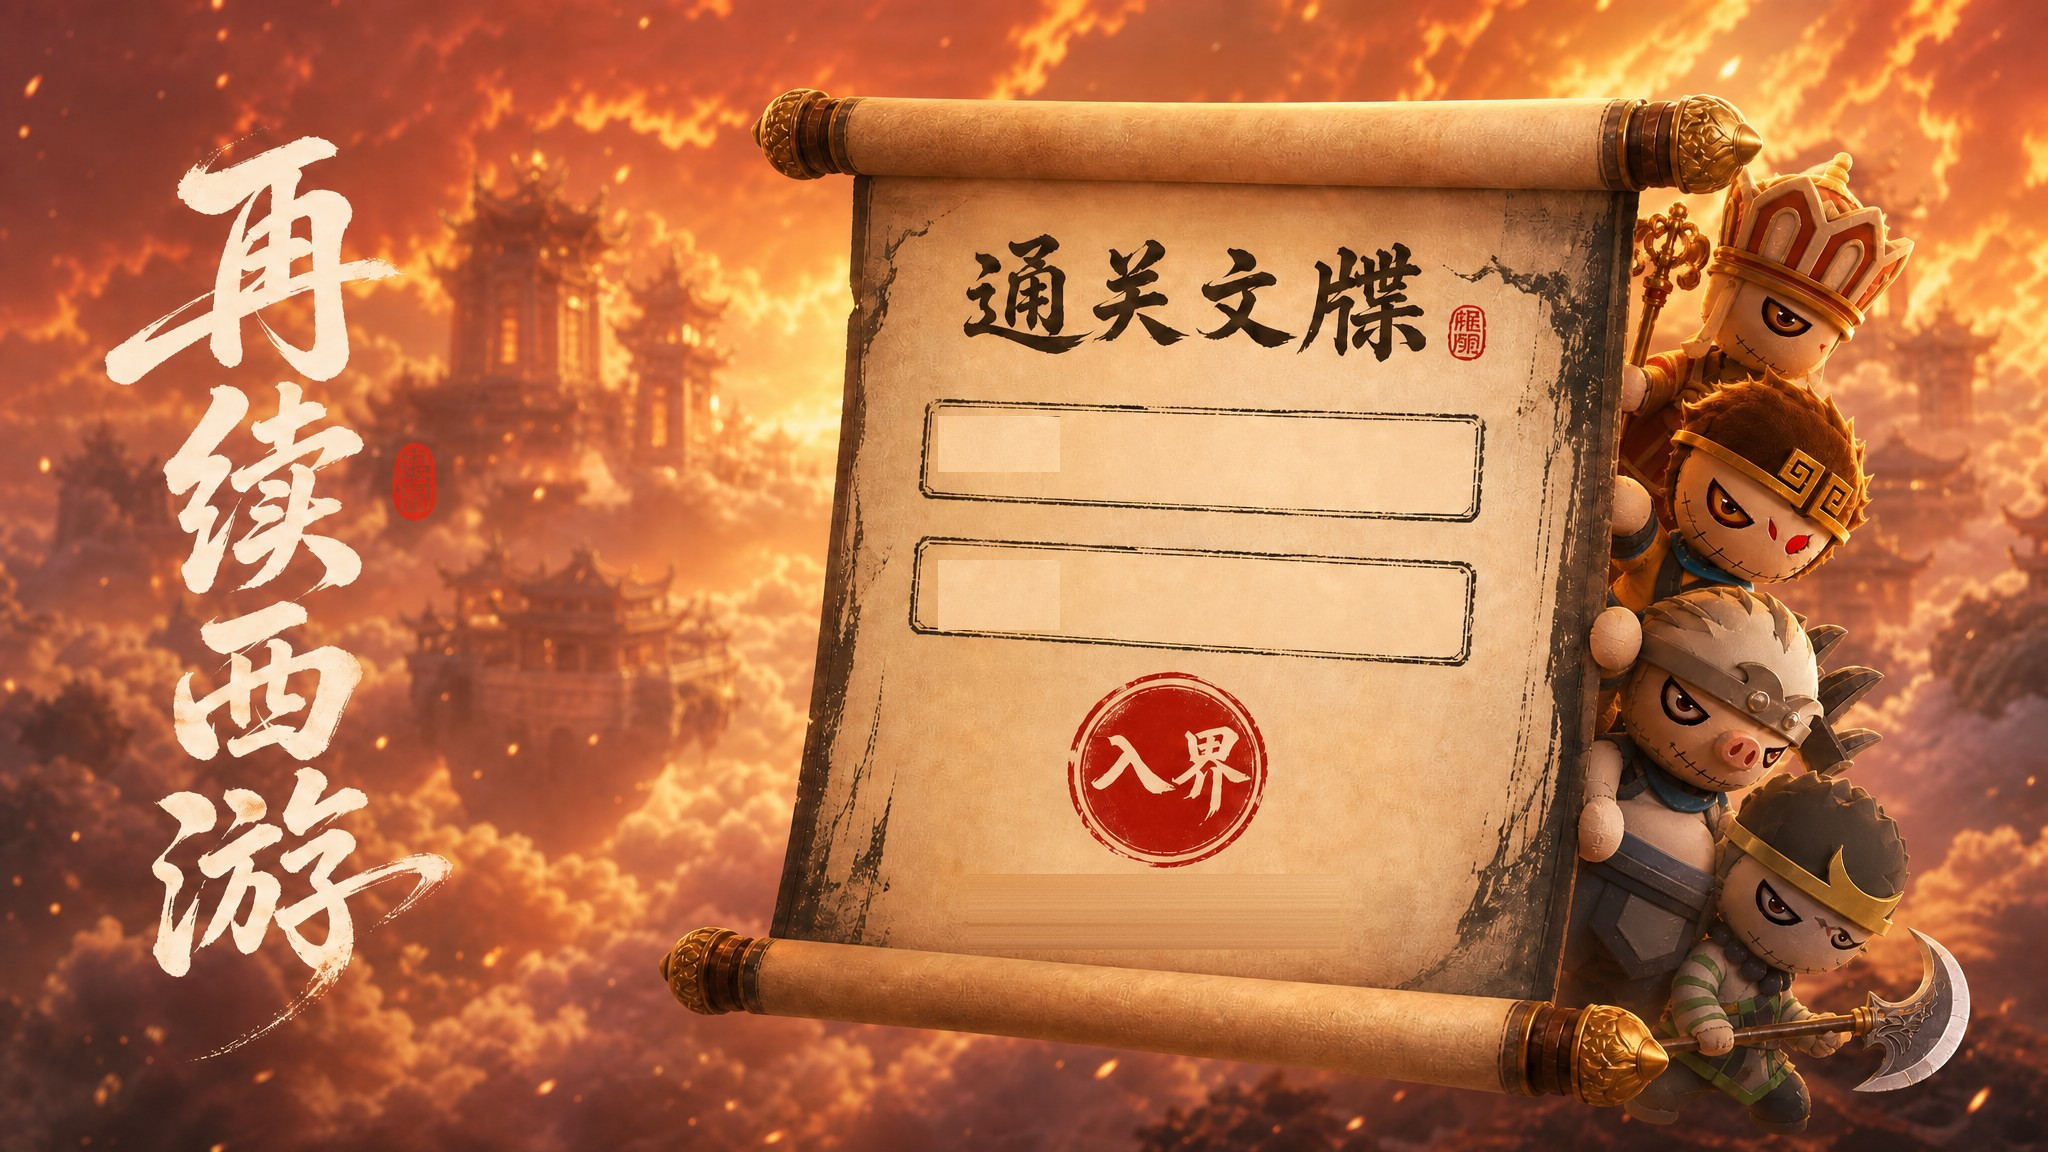
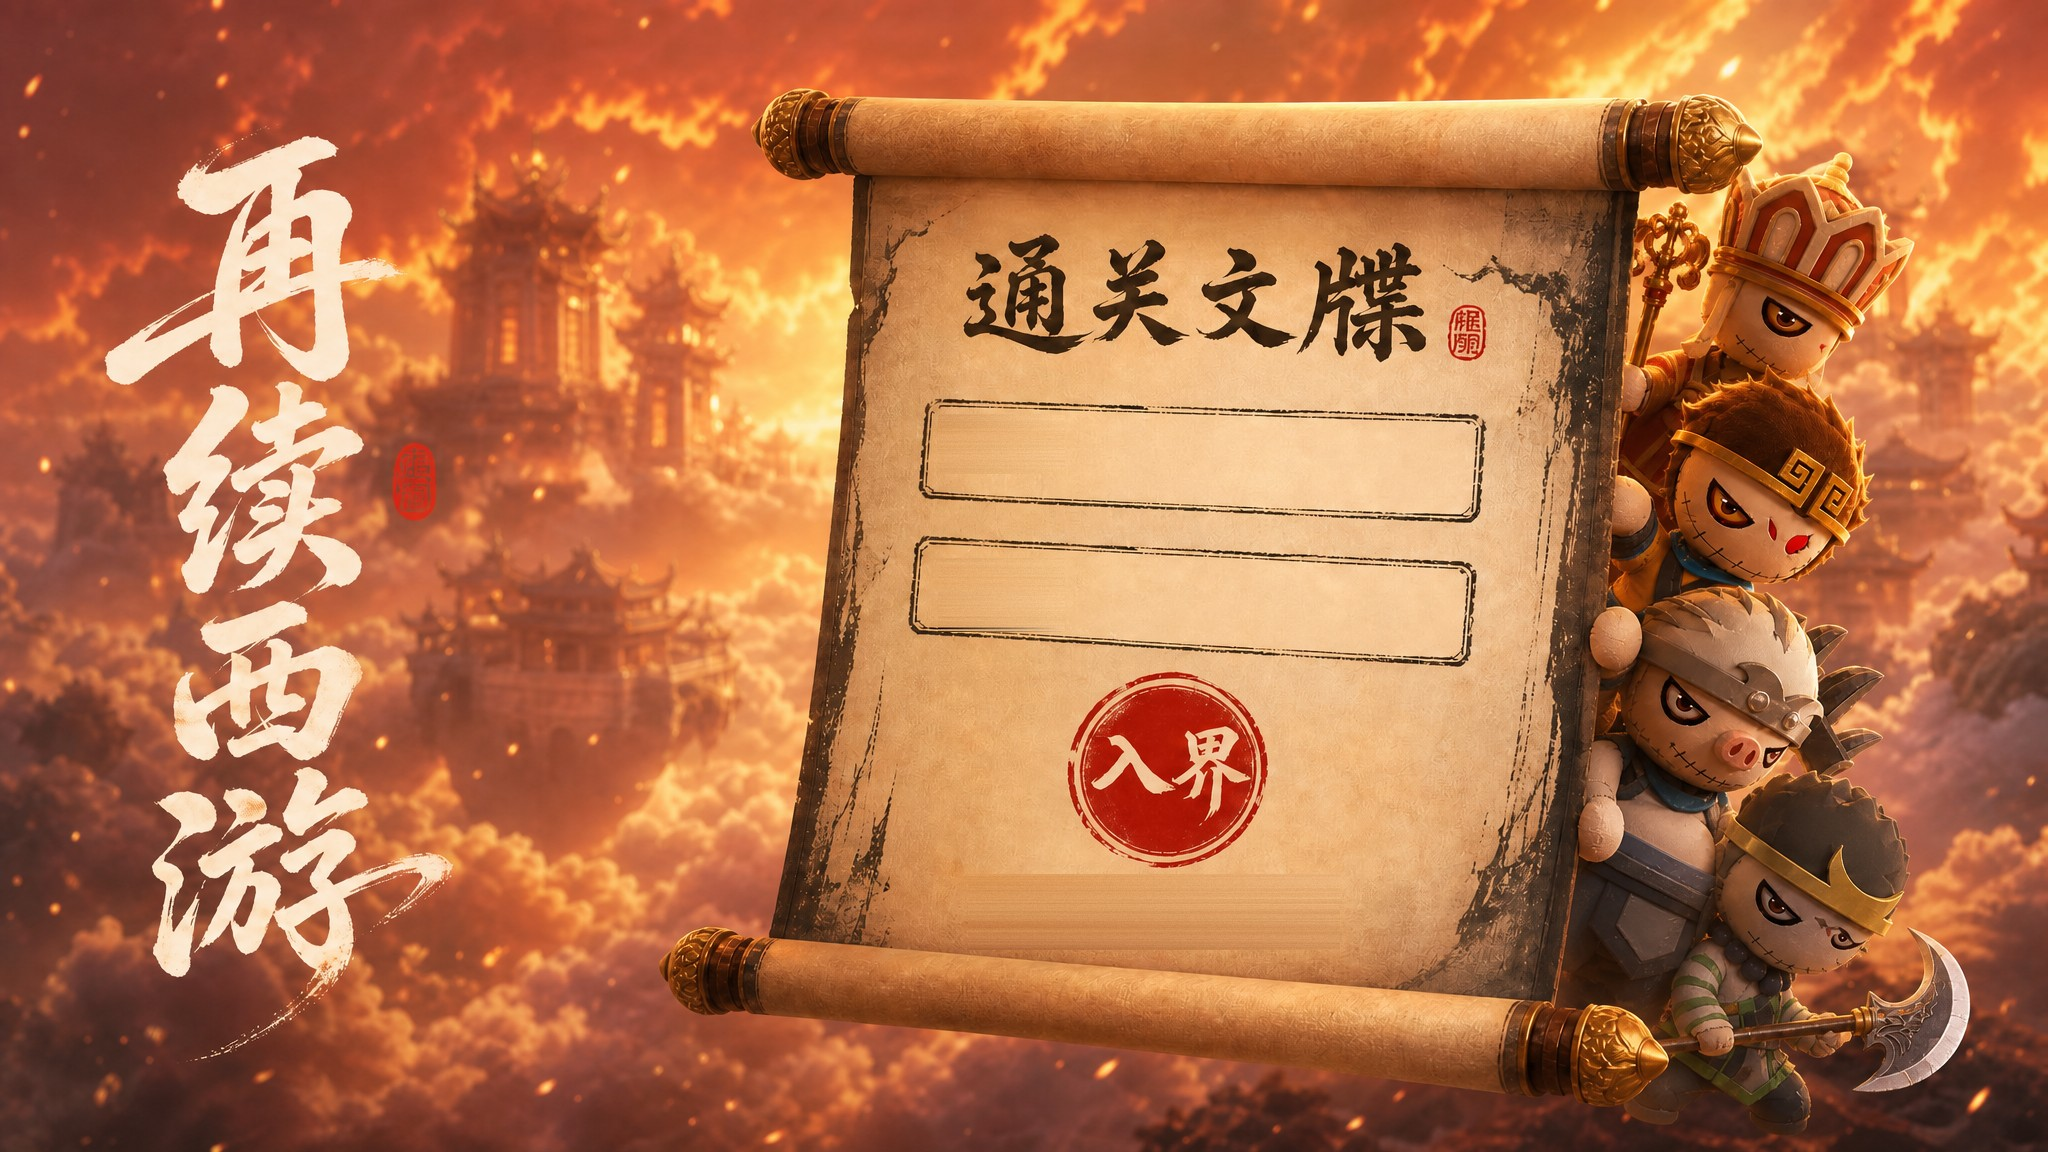
fix(ui): rotate login inputs via CSS transform (Phaser DOMElement rotation inert here) + seamless lerp erase

Changed region(s): [[0.4375, 0.4688, 0.5312, 0.5625], [0.4375, 0.3438, 0.5312, 0.4375]]

diff --git a/game/src/scenes/LoginScene.ts b/game/src/scenes/LoginScene.ts
@@ -185,6 +185,9 @@ export class LoginScene extends Phaser.Scene {
       caretColor: '#8a1f18',
       outline: 'none',
       transition: 'text-shadow 160ms ease',
+      // Phaser DOMElement.setRotation does not reach the node in this setup;
+      // rotate the input itself so text/caret sit on the hand-drawn tilt.
+      transform: `rotate(${(box.rot * 180) / Math.PI}deg)`,
     })
     input.addEventListener('focus', () => {
       input.style.textShadow = '0 0 6px rgba(179,39,30,0.35)'
